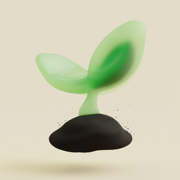
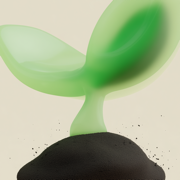
fix: ícono recortado más grande, nombre PWA, caché invalidada, sección 8
- Íconos: recortados al 56% central (brote llena más el ícono)
- layout.jsx: un solo apple-touch-icon, sin duplicado
- sw.js: versión v1 → v3 para forzar re-fetch del manifest
- s08: elimina texto "Las seis categorías" (reemplazado por tarjetas)
- TribuCards: texto expandido 12px → 14px

diff --git a/src/app/layout.jsx b/src/app/layout.jsx
@@ -23,11 +23,10 @@ export default function RootLayout({ children }) {
   return (
     <html lang="es">
       <head>
-        <link rel="apple-touch-icon" href="/icon-192.png" />
+        <link rel="apple-touch-icon" sizes="180x180" href="/apple-touch-icon.png" />
         <meta name="apple-mobile-web-app-capable" content="yes" />
         <meta name="apple-mobile-web-app-status-bar-style" content="black-translucent" />
         <meta name="apple-mobile-web-app-title" content="Playbook Comercial" />
-        <link rel="apple-touch-icon" href="/apple-touch-icon.png" />
       </head>
       <body>{children}</body>
     </html>

diff --git a/src/components/TribuCards.jsx b/src/components/TribuCards.jsx
@@ -108,7 +108,7 @@ export default function TribuCards() {
 
               {/* Expanded detail */}
               {isOpen && (
-                <div style={{ marginTop: 10, paddingTop: 10, borderTop: `1px solid ${r.ac}30`, fontSize: 12, color: '#1F2A30', lineHeight: 1.6, fontFamily: "'Inter', sans-serif" }}>
+                <div style={{ marginTop: 10, paddingTop: 10, borderTop: `1px solid ${r.ac}30`, fontSize: 14, color: '#1F2A30', lineHeight: 1.65, fontFamily: "'Inter', sans-serif" }}>
                   {r.detail}
                 </div>
               )}

diff --git a/public/sw.js b/public/sw.js
@@ -1,4 +1,4 @@
-const CACHE = 'playbook-siembra-v1'
+const CACHE = 'playbook-siembra-v3'
 
 const PRECACHE = [
   '/',

diff --git a/content/sections/s08-tribu-del-agua.md b/content/sections/s08-tribu-del-agua.md
@@ -7,20 +7,6 @@ title: La Tribu del Agua
 
 Agua Siembra clasifica a todas las personas conectadas con la empresa en un marco llamado la Tribu del Agua. No es un eslogan ni un programa de fidelización: es una herramienta operativa que define quién es quién en el ecosistema de la marca según el tipo de contribución que hace.
 
-## Las seis categorías
-
-**Clientes.** Contribuyen dinero a través de la compra del producto. Incluye al comensal que pide agua en un restaurante, al gerente de compras de un hotel, al hogar que recibe su botellón por suscripción, a la empresa que abastece su oficina. La relación arranca como transaccional, pero el trabajo comercial consiste en convertirla en algo más: que el cliente entienda el ciclo, lo valore y lo elija conscientemente.
-
-**Inversionistas.** Contribuyen dinero a través de inversión con expectativa de retorno. Crepes & Waffles es inversionista y cliente ancla simultáneamente. Altipal opera como inversionista y como facilitador de distribución. La comunicación con ellos integra información financiera y de impacto: los números del negocio y los números de la siembra van juntos.
-
-**Colaboradores.** Contribuyen trabajo como empleados de la empresa. Son aproximadamente 40 personas entre la planta de Guasca y la operación en Bogotá. Son la primera audiencia de la marca: si un texto interno no los convence, ningún texto externo va a funcionar.
-
-**Facilitadores.** Contribuyen trabajo y exposición como intermediarios que llevan el producto al consumidor y amplifican su presencia. Este grupo es clave para el equipo comercial porque incluye a las personas en contacto directo con el consumidor final: meseros, bartenders, sommeliers, chefs que recomiendan el agua en su carta, embajadores de marca, aliados estratégicos como Altipal. Los facilitadores necesitan herramientas concretas de storytelling: argumentos cortos, datos memorables, guiones de servicio. Si un mesero no sabe explicar por qué esta botella vuelve a la planta, la historia de retornabilidad se pierde en la mesa.
-
-**Seguidores.** Contribuyen exposición como audiencia digital. Se conectan con la marca a través de contenido, reconocimiento y participación cultural. La aspiración es que los seguidores no sean un nicho ambientalista sino corriente principal: gente que quiere ser vista con la marca porque la marca es deseable, no porque se siente obligada.
-
-**Receptores.** Contribuyen exposición como beneficiarios de los programas ambientales y sociales. Incluye los ecosistemas, cuencas, especies y comunidades cuyas historias la empresa documenta y visibiliza.
-
 ## Qué significa esto para el equipo comercial
 
 La utilidad del marco está en la **conjugación de categorías**. Cada persona puede pertenecer a más de una categoría, y el trabajo comercial a menudo consiste en mover a alguien de una categoría a otra.
